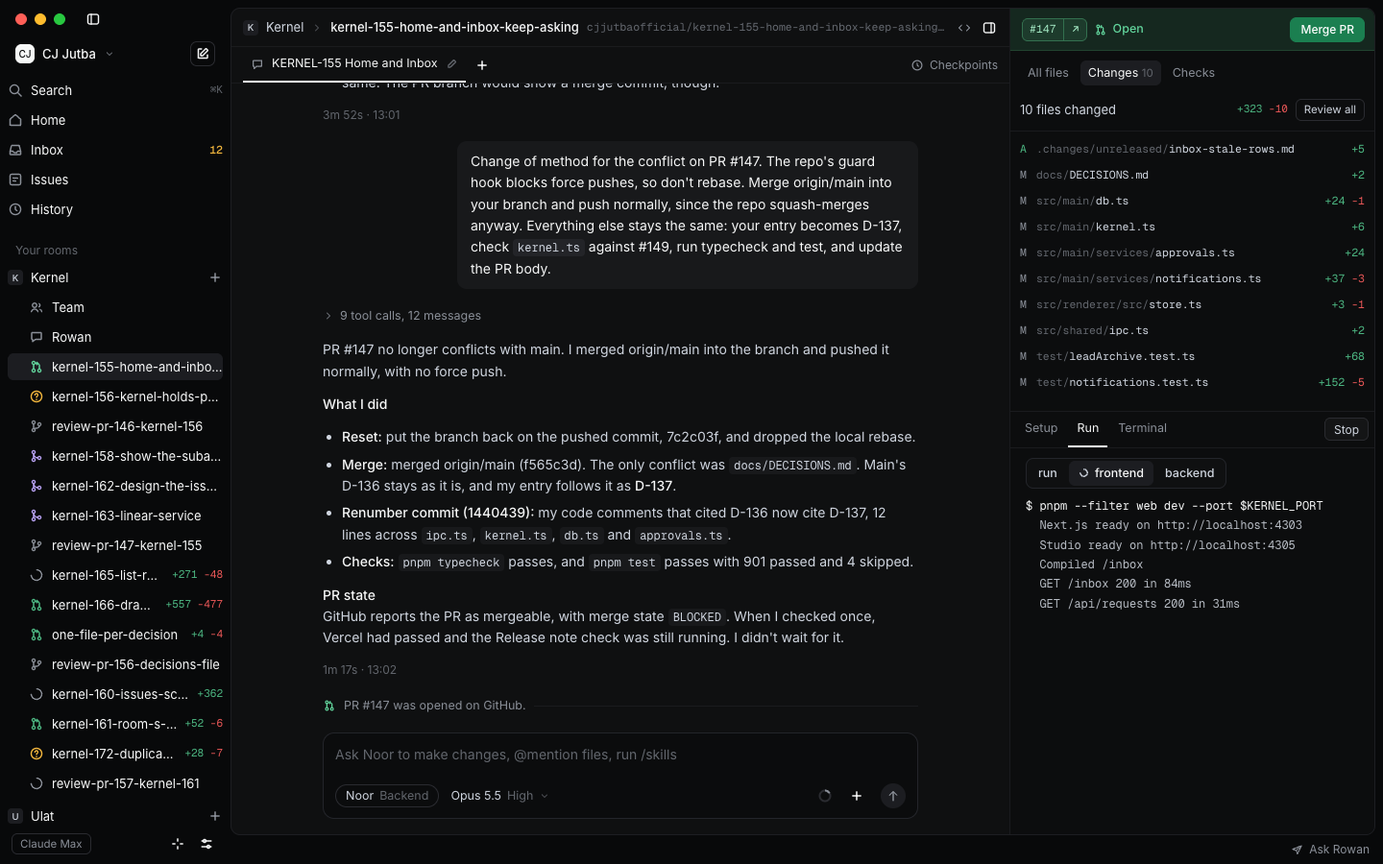
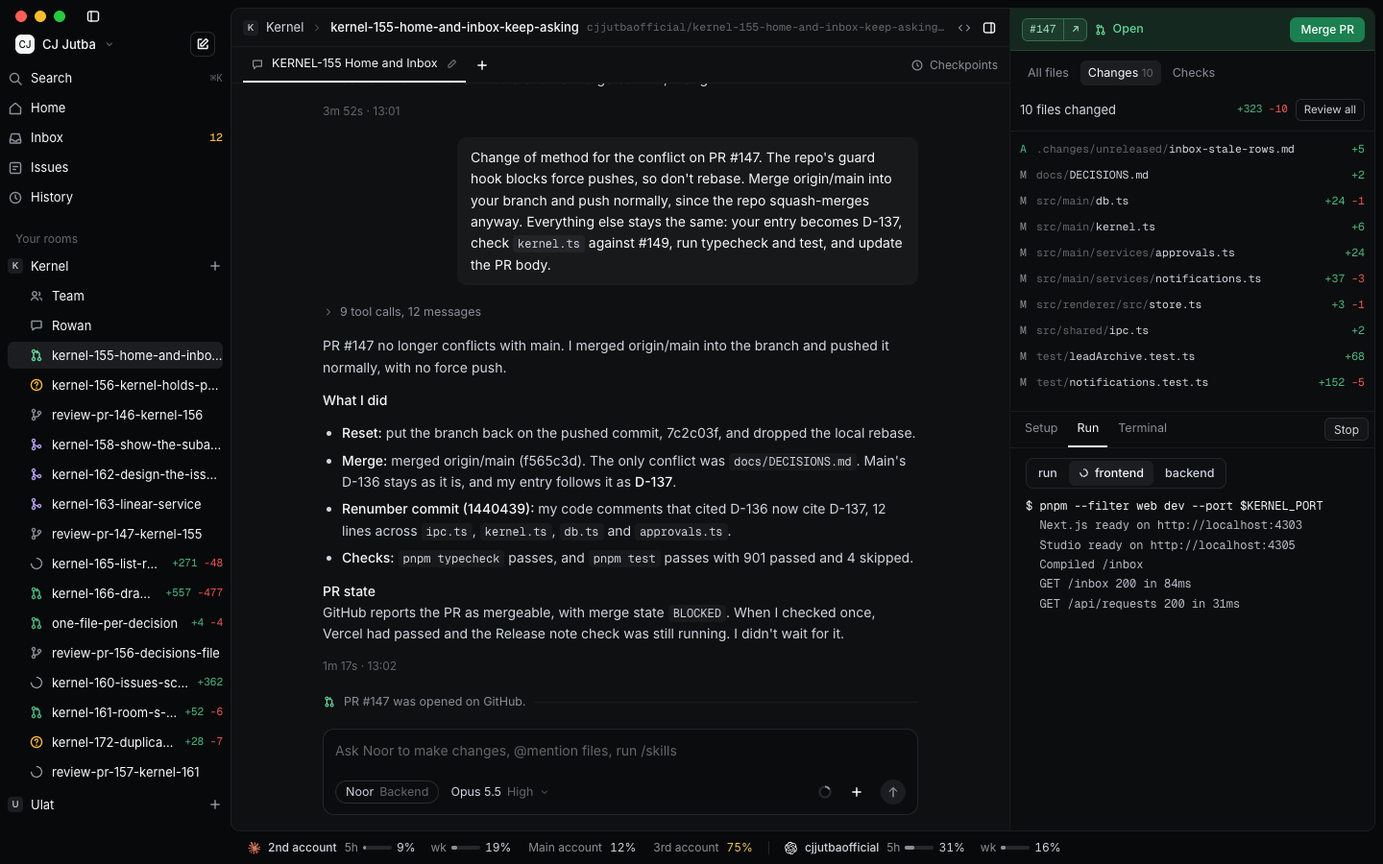
docs(design): new footer and empty sidebar row on the workspace panel pages (KERNEL-672)

diff --git a/design/canvas/project/WorkspacePreview.dc.html b/design/canvas/project/WorkspacePreview.dc.html
@@ -99,6 +99,70 @@ body{margin:0}
 .out .c{color:var(--ink)}
 .empty{flex:1;min-height:0;display:flex;flex-direction:column;align-items:center;justify-content:center;gap:8px;padding:24px;text-align:center}
 </style>
+<style>
+.uf { --ink:#f7f8f8; --ink-2:#d0d6e0; --ink-3:#b7bcc4; --muted:#8a8f98; --faint:#62666d; --line:#1d1e22; --line-2:#26272b; --line-3:#2a2b30; --surface-2:#18191b; --surface-3:#1c1d21; --input-bg:#141516; --nav-hover:#141518; --needs:#f2c55c; --needs-fill:#f2c55c; --del:#f06363; --del-fill:#f06363; --r-sm:6px; --r:8px; --r-md:10px; --r-pill:999px; --canvas:#08090a; --claude:#d97757; }
+.uf * { box-sizing:border-box; }
+.uf button { font:inherit; color:inherit; cursor:pointer; }
+.uf .grow { flex:1; min-width:0; }
+.uf .ellipsis { overflow:hidden; text-overflow:ellipsis; white-space:nowrap; }
+.uf .nv-e { font-size:11.5px; color:var(--muted); }
+.uf .popat { position:absolute; z-index:60; left:10px; bottom:34px; }
+.uf .menu-item:hover, .uf .chip:hover { background:var(--surface-3); }
+.uf { position:relative; height:34px; flex-shrink:0; display:flex; align-items:center; gap:4px; padding:0 10px; font-size:12px; color:var(--muted); }
+.uf .ft-l { display:inline-flex; align-items:center; gap:2px; }
+.uf .ft-pm { display:inline-flex; }
+.uf .chip { display:inline-flex; align-items:center; gap:8px; height:24px; padding:0 8px; border:0; border-radius:var(--r-sm); background:transparent; color:var(--ink-2); font-size:12px; white-space:nowrap; }
+.uf .chip:hover { background:var(--nav-hover); }
+.uf .cn { color:var(--ink-2); font-weight:500; }
+.uf .cn.dim { color:var(--muted); font-weight:400; }
+.uf .fw { display:inline-flex; align-items:center; gap:5px; }
+.uf .wl { color:var(--muted); }
+.uf .fw + .fw { margin-left:8px; }
+.uf .pc, .uf .pm-mp { font-variant-numeric:tabular-nums; color:var(--ink-2); }
+.uf .fdiv { width:1px; height:14px; margin:0 6px; background:var(--line-2); }
+.uf [data-tone='near'] { color:var(--needs) !important; }
+.uf [data-tone='full'] { color:var(--del) !important; }
+.uf .meter { display:inline-block; border-radius:var(--r-pill); background:var(--line-2); overflow:hidden; flex-shrink:0; }
+.uf .meter > span { display:block; height:100%; border-radius:inherit; background:var(--muted); }
+.uf .meter[data-level='near'] > span { background:var(--needs-fill); }
+.uf .meter[data-level='full'] > span { background:var(--del-fill); }
+.uf .ft-pill { display:inline-flex; align-items:center; gap:7px; height:24px; padding:0 10px; border:1px solid var(--line-3); border-radius:var(--r-pill); background:transparent; color:var(--ink-2); font-size:12px; white-space:nowrap; }
+.uf .segmented { display:inline-flex; gap:2px; padding:2px; border:1px solid var(--line-2); border-radius:var(--r); background:var(--input-bg); }
+.uf .segmented button { height:24px; padding:0 10px; border:0; border-radius:var(--r-sm); background:transparent; color:var(--muted); font-size:12.5px; }
+.uf .segmented button[aria-checked='true'] { background:var(--surface-3); color:var(--ink); font-weight:500; }
+.uf .menu-item { display:flex; align-items:center; gap:10px; width:100%; height:32px; padding:0 8px; border:0; border-radius:var(--r-sm); background:transparent; color:var(--ink-2); text-align:left; font-size:13px; }
+.uf .menu-item svg { color:var(--muted); flex-shrink:0; }
+.uf .popover { border-radius:var(--r-md); border:1px solid var(--line-3); background:var(--surface-2); }
+.uf .pm { width:360px; overflow:hidden; }
+.uf .pm-top { display:flex; align-items:center; justify-content:space-between; height:48px; padding:0 10px 0 14px; border-bottom:1px solid var(--line-2); }
+.uf .pm-title { font-size:13px; font-weight:500; color:var(--ink); }
+.uf .pm-sec + .pm-sec { border-top:1px solid var(--line-2); }
+.uf .pm-head { display:flex; align-items:center; gap:10px; width:100%; padding:11px 14px; border:0; background:transparent; text-align:left; }
+.uf .pm-mark { display:inline-flex; width:14px; justify-content:center; color:var(--ink); }
+.uf .pm-who { flex:1; min-width:0; display:flex; flex-direction:column; gap:1px; }
+.uf .pm-line { display:flex; align-items:baseline; gap:8px; min-width:0; }
+.uf .pm-name { font-size:13px; font-weight:500; color:var(--ink); white-space:nowrap; }
+.uf .pm-acct { font-size:12px; color:var(--muted); white-space:nowrap; overflow:hidden; text-overflow:ellipsis; }
+.uf .pm-chev { display:inline-flex; color:var(--muted); }
+.uf .pm-cw { display:inline-flex; align-items:baseline; gap:8px; font-size:12px; }
+.uf .pm-cl { color:var(--muted); }
+.uf .pm-minis { display:flex; align-items:center; gap:14px; padding:0 14px 12px 38px; margin-top:-3px; }
+.uf .pm-mini { display:inline-flex; align-items:center; gap:6px; font-size:12px; white-space:nowrap; }
+.uf .pm-ml { color:var(--muted); }
+.uf .pm-body { display:flex; flex-direction:column; gap:12px; padding:0 14px 8px 38px; margin-top:-4px; }
+.uf .plan-email { font-size:12px; color:var(--muted); }
+.uf .plan-rows { display:flex; flex-direction:column; gap:12px; }
+.uf .plan-row { display:flex; flex-direction:column; gap:5px; }
+.uf .plan-title { font-size:12.5px; color:var(--ink-2); }
+.uf .plan-note { font-size:11.5px; color:var(--muted); }
+.uf .plan-switch { display:flex; flex-direction:column; gap:2px; margin:0 -8px; }
+.uf .plan-switch-title { padding:0 8px; font-size:12px; font-weight:500; color:var(--muted); }
+.uf .menu-item.plan-other { align-items:baseline; gap:8px; color:var(--ink); }
+.uf .plan-other-name { font-weight:500; }
+.uf .plan-other-plan { flex:1; min-width:0; font-size:12px; color:var(--muted); }
+.uf .plan-other-use { font-size:12px; color:var(--muted); }
+.uf .plan-foot { padding:6px; border-top:1px solid var(--line-2); }
+</style>
 </helmet>
 <div class="k t-green gl-pr lg-pr" style="width: 1440px; height: 900px; display: flex; overflow: hidden; --signal: #f5b83d">
 
@@ -149,11 +213,7 @@ body{margin:0}
 <button class="row" style="color: var(--ink); margin-top: 3px"><span class="av" style="width: 16px; height: 16px; font-size: 9.5px; border-radius: 4px">U</span><span class="t">Ulat</span><svg class="i g-muted" viewBox="0 0 16 16" aria-hidden="true"><path d="M8 3.5v9M3.5 8h9"></path></svg></button>
 </div>
 
-<div style="margin-top: auto; display: flex; align-items: center; gap: 4px; padding: 0 4px">
-<span style="font-size: 11.5px; color: var(--muted); border: 1px solid var(--line-3); border-radius: 6px; padding: 2px 8px">Claude Max</span>
-<button class="ib" aria-label="What's new" style="margin-left: auto"><svg class="i" viewBox="0 0 16 16" aria-hidden="true"><path d="M8 2.5v3M8 10.5v3M2.5 8h3M10.5 8h3"></path></svg></button>
-<button class="ib" aria-label="Settings"><svg class="i" viewBox="0 0 16 16" aria-hidden="true"><path d="M3 5h10M3 11h10"></path><circle cx="6" cy="5" r="1.5"></circle><circle cx="10" cy="11" r="1.5"></circle></svg></button>
-</div>
+<div style="margin-top: auto; height: 40px; flex-shrink: 0"></div>
 </aside>
 
 <div style="flex: 1; min-width: 0; display: flex; flex-direction: column; padding: 8px 8px 0 0">
@@ -310,9 +370,10 @@ body{margin:0}
 </section>
 
 </div>
-<div style="height: 30px; flex-shrink: 0; display: flex; align-items: center; justify-content: flex-end; gap: 6px; padding: 0 6px; font-size: 12px; color: var(--muted)">
-<svg class="i" viewBox="0 0 16 16" aria-hidden="true" style="width: 13px; height: 13px"><path d="M13.5 2.5 2.5 7l4.5 1.5L8.5 13z"></path><path d="M7 8.5l3-3"></path></svg>Ask Rowan
-</div>
+<footer class="uf">
+<span class="ft-l"><button type="button" class="chip on" aria-label="Claude Code, 2nd account, active: 5-hour 9%, weekly 19%. Opens usage"><span class="ft-pm"><svg width="13" height="13" viewBox="0 0 24 24" aria-hidden="true" fill="var(--claude)" style="flex-shrink:0"><path d="m4.7144 15.9555 4.7174-2.6471.079-.2307-.079-.1275h-.2307l-.7893-.0486-2.6956-.0729-2.3375-.0971-2.2646-.1214-.5707-.1215-.5343-.7042.0546-.3522.4797-.3218.686.0608 1.5179.1032 2.2767.1578 1.6514.0972 2.4468.255h.3886l.0546-.1579-.1336-.0971-.1032-.0972L6.973 9.8356l-2.55-1.6879-1.3356-.9714-.7225-.4918-.3643-.4614-.1578-1.0078.6557-.7225.8803.0607.2246.0607.8925.686 1.9064 1.4754 2.4893 1.8336.3643.3035.1457-.1032.0182-.0728-.164-.2733-1.3539-2.4467-1.445-2.4893-.6435-1.032-.17-.6194c-.0607-.255-.1032-.4674-.1032-.7285L6.287.1335 6.6997 0l.9957.1336.419.3642.6192 1.4147 1.0018 2.2282 1.5543 3.0296.4553.8985.2429.8318.091.255h.1579v-.1457l.1275-1.706.2368-2.0947.2307-2.6957.0789-.7589.3764-.9107.7468-.4918.5828.2793.4797.686-.0668.4433-.2853 1.8517-.5586 2.9021-.3643 1.9429h.2125l.2429-.2429.9835-1.3053 1.6514-2.0643.7286-.8196.85-.9046.5464-.4311h1.0321l.759 1.1293-.34 1.1657-1.0625 1.3478-.8804 1.1414-1.2628 1.7-.7893 1.36.0729.1093.1882-.0183 2.8535-.607 1.5421-.2794 1.8396-.3157.8318.3886.091.3946-.3278.8075-1.967.4857-2.3072.4614-3.4364.8136-.0425.0304.0486.0607 1.5482.1457.6618.0364h1.621l3.0175.2247.7892.522.4736.6376-.079.4857-1.2142.6193-1.6393-.3886-3.825-.9107-1.3113-.3279h-.1822v.1093l1.0929 1.0686 2.0035 1.8092 2.5075 2.3314.1275.5768-.3218.4554-.34-.0486-2.2039-1.6575-.85-.7468-1.9246-1.621h-.1275v.17l.4432.6496 2.3436 3.5214.1214 1.0807-.17.3521-.6071.2125-.6679-.1214-1.3721-1.9246L14.38 17.959l-1.1414-1.9428-.1397.079-.674 7.2552-.3156.3703-.7286.2793-.6071-.4614-.3218-.7468.3218-1.4753.3886-1.9246.3157-1.53.2853-1.9004.17-.6314-.0121-.0425-.1397.0182-1.4328 1.9672-2.1796 2.9446-1.7243 1.8456-.4128.164-.7164-.3704.0667-.6618.4008-.5889 2.386-3.0357 1.4389-1.882.929-1.0868-.0062-.1579h-.0546l-6.3385 4.1164-1.1293.1457-.4857-.4554.0608-.7467.2307-.2429 1.9064-1.3114Z"/></svg></span><span class="cn">2nd account</span><span class="fw"><span class="wl">5h</span><span class="meter" data-level="" style="width:30px;height:4px"><span style="width:9%"></span></span><span class="pc" data-tone="ok">9%</span></span><span class="fw"><span class="wl">wk</span><span class="meter" data-level="" style="width:30px;height:4px"><span style="width:19%"></span></span><span class="pc" data-tone="ok">19%</span></span></button><button type="button" class="chip" aria-label="Claude Code, Main account: 5-hour 12%. Switch to it"><span class="cn dim">Main account</span><span class="pc" data-tone="ok">12%</span></button><button type="button" class="chip" aria-label="Claude Code, 3rd account: 5-hour 75%. Switch to it"><span class="cn dim">3rd account</span><span class="pc" data-tone="near">75%</span></button><span class="fdiv"></span><button type="button" class="chip on" aria-label="Codex, cjjutbaofficial, active: 5-hour 31%, weekly 16%. Opens usage"><span class="ft-pm"><svg width="13" height="13" viewBox="0 0 24 24" aria-hidden="true" fill="currentColor" style="color:var(--ink);flex-shrink:0"><path d="M22.2819 9.8211a5.9847 5.9847 0 0 0-.5157-4.9108 6.0462 6.0462 0 0 0-6.5098-2.9A6.0651 6.0651 0 0 0 4.9807 4.1818a5.9847 5.9847 0 0 0-3.9977 2.9 6.0462 6.0462 0 0 0 .7427 7.0966 5.98 5.98 0 0 0 .511 4.9107 6.051 6.051 0 0 0 6.5146 2.9001A5.9847 5.9847 0 0 0 13.2599 24a6.0557 6.0557 0 0 0 5.7718-4.2058 5.9894 5.9894 0 0 0 3.9977-2.9001 6.0557 6.0557 0 0 0-.7475-7.0729zm-9.022 12.6081a4.4755 4.4755 0 0 1-2.8764-1.0408l.1419-.0804 4.7783-2.7582a.7948.7948 0 0 0 .3927-.6813v-6.7369l2.02 1.1686a.071.071 0 0 1 .038.052v5.5826a4.504 4.504 0 0 1-4.4945 4.4944zm-9.6607-4.1254a4.4708 4.4708 0 0 1-.5346-3.0137l.142.0852 4.783 2.7582a.7712.7712 0 0 0 .7806 0l5.8428-3.3685v2.3324a.0804.0804 0 0 1-.0332.0615L9.74 19.9502a4.4992 4.4992 0 0 1-6.1408-1.6464zM2.3408 7.8956a4.485 4.485 0 0 1 2.3655-1.9728V11.6a.7664.7664 0 0 0 .3879.6765l5.8144 3.3543-2.0201 1.1685a.0757.0757 0 0 1-.071 0l-4.8303-2.7865A4.504 4.504 0 0 1 2.3408 7.872zm16.5963 3.8558L13.1038 8.364 15.1192 7.2a.0757.0757 0 0 1 .071 0l4.8303 2.7913a4.4944 4.4944 0 0 1-.6765 8.1042v-5.6772a.79.79 0 0 0-.407-.667zm2.0107-3.0231l-.142-.0852-4.7735-2.7818a.7759.7759 0 0 0-.7854 0L9.409 9.2297V6.8974a.0662.0662 0 0 1 .0284-.0615l4.8303-2.7866a4.4992 4.4992 0 0 1 6.6802 4.66zM8.3065 12.863l-2.02-1.1638a.0804.0804 0 0 1-.038-.0567V6.0742a4.4992 4.4992 0 0 1 7.3757-3.4537l-.142.0805L8.704 5.459a.7948.7948 0 0 0-.3927.6813zm1.0976-2.3654l2.602-1.4998 2.6069 1.4998v2.9994l-2.5974 1.4997-2.6067-1.4997Z"/></svg></span><span class="cn">cjjutbaofficial</span><span class="fw"><span class="wl">5h</span><span class="meter" data-level="" style="width:30px;height:4px"><span style="width:31%"></span></span><span class="pc" data-tone="ok">31%</span></span><span class="fw"><span class="wl">wk</span><span class="meter" data-level="" style="width:30px;height:4px"><span style="width:16%"></span></span><span class="pc" data-tone="ok">16%</span></span></button></span><span class="grow"></span>
+</footer>
+
 </div>
 
 </div>

diff --git a/design/canvas/project/WorkspaceRunScripts.dc.html b/design/canvas/project/WorkspaceRunScripts.dc.html
@@ -99,6 +99,70 @@ body{margin:0}
 .out .c{color:var(--ink)}
 .empty{flex:1;min-height:0;display:flex;flex-direction:column;align-items:center;justify-content:center;gap:8px;padding:24px;text-align:center}
 </style>
+<style>
+.uf { --ink:#f7f8f8; --ink-2:#d0d6e0; --ink-3:#b7bcc4; --muted:#8a8f98; --faint:#62666d; --line:#1d1e22; --line-2:#26272b; --line-3:#2a2b30; --surface-2:#18191b; --surface-3:#1c1d21; --input-bg:#141516; --nav-hover:#141518; --needs:#f2c55c; --needs-fill:#f2c55c; --del:#f06363; --del-fill:#f06363; --r-sm:6px; --r:8px; --r-md:10px; --r-pill:999px; --canvas:#08090a; --claude:#d97757; }
+.uf * { box-sizing:border-box; }
+.uf button { font:inherit; color:inherit; cursor:pointer; }
+.uf .grow { flex:1; min-width:0; }
+.uf .ellipsis { overflow:hidden; text-overflow:ellipsis; white-space:nowrap; }
+.uf .nv-e { font-size:11.5px; color:var(--muted); }
+.uf .popat { position:absolute; z-index:60; left:10px; bottom:34px; }
+.uf .menu-item:hover, .uf .chip:hover { background:var(--surface-3); }
+.uf { position:relative; height:34px; flex-shrink:0; display:flex; align-items:center; gap:4px; padding:0 10px; font-size:12px; color:var(--muted); }
+.uf .ft-l { display:inline-flex; align-items:center; gap:2px; }
+.uf .ft-pm { display:inline-flex; }
+.uf .chip { display:inline-flex; align-items:center; gap:8px; height:24px; padding:0 8px; border:0; border-radius:var(--r-sm); background:transparent; color:var(--ink-2); font-size:12px; white-space:nowrap; }
+.uf .chip:hover { background:var(--nav-hover); }
+.uf .cn { color:var(--ink-2); font-weight:500; }
+.uf .cn.dim { color:var(--muted); font-weight:400; }
+.uf .fw { display:inline-flex; align-items:center; gap:5px; }
+.uf .wl { color:var(--muted); }
+.uf .fw + .fw { margin-left:8px; }
+.uf .pc, .uf .pm-mp { font-variant-numeric:tabular-nums; color:var(--ink-2); }
+.uf .fdiv { width:1px; height:14px; margin:0 6px; background:var(--line-2); }
+.uf [data-tone='near'] { color:var(--needs) !important; }
+.uf [data-tone='full'] { color:var(--del) !important; }
+.uf .meter { display:inline-block; border-radius:var(--r-pill); background:var(--line-2); overflow:hidden; flex-shrink:0; }
+.uf .meter > span { display:block; height:100%; border-radius:inherit; background:var(--muted); }
+.uf .meter[data-level='near'] > span { background:var(--needs-fill); }
+.uf .meter[data-level='full'] > span { background:var(--del-fill); }
+.uf .ft-pill { display:inline-flex; align-items:center; gap:7px; height:24px; padding:0 10px; border:1px solid var(--line-3); border-radius:var(--r-pill); background:transparent; color:var(--ink-2); font-size:12px; white-space:nowrap; }
+.uf .segmented { display:inline-flex; gap:2px; padding:2px; border:1px solid var(--line-2); border-radius:var(--r); background:var(--input-bg); }
+.uf .segmented button { height:24px; padding:0 10px; border:0; border-radius:var(--r-sm); background:transparent; color:var(--muted); font-size:12.5px; }
+.uf .segmented button[aria-checked='true'] { background:var(--surface-3); color:var(--ink); font-weight:500; }
+.uf .menu-item { display:flex; align-items:center; gap:10px; width:100%; height:32px; padding:0 8px; border:0; border-radius:var(--r-sm); background:transparent; color:var(--ink-2); text-align:left; font-size:13px; }
+.uf .menu-item svg { color:var(--muted); flex-shrink:0; }
+.uf .popover { border-radius:var(--r-md); border:1px solid var(--line-3); background:var(--surface-2); }
+.uf .pm { width:360px; overflow:hidden; }
+.uf .pm-top { display:flex; align-items:center; justify-content:space-between; height:48px; padding:0 10px 0 14px; border-bottom:1px solid var(--line-2); }
+.uf .pm-title { font-size:13px; font-weight:500; color:var(--ink); }
+.uf .pm-sec + .pm-sec { border-top:1px solid var(--line-2); }
+.uf .pm-head { display:flex; align-items:center; gap:10px; width:100%; padding:11px 14px; border:0; background:transparent; text-align:left; }
+.uf .pm-mark { display:inline-flex; width:14px; justify-content:center; color:var(--ink); }
+.uf .pm-who { flex:1; min-width:0; display:flex; flex-direction:column; gap:1px; }
+.uf .pm-line { display:flex; align-items:baseline; gap:8px; min-width:0; }
+.uf .pm-name { font-size:13px; font-weight:500; color:var(--ink); white-space:nowrap; }
+.uf .pm-acct { font-size:12px; color:var(--muted); white-space:nowrap; overflow:hidden; text-overflow:ellipsis; }
+.uf .pm-chev { display:inline-flex; color:var(--muted); }
+.uf .pm-cw { display:inline-flex; align-items:baseline; gap:8px; font-size:12px; }
+.uf .pm-cl { color:var(--muted); }
+.uf .pm-minis { display:flex; align-items:center; gap:14px; padding:0 14px 12px 38px; margin-top:-3px; }
+.uf .pm-mini { display:inline-flex; align-items:center; gap:6px; font-size:12px; white-space:nowrap; }
+.uf .pm-ml { color:var(--muted); }
+.uf .pm-body { display:flex; flex-direction:column; gap:12px; padding:0 14px 8px 38px; margin-top:-4px; }
+.uf .plan-email { font-size:12px; color:var(--muted); }
+.uf .plan-rows { display:flex; flex-direction:column; gap:12px; }
+.uf .plan-row { display:flex; flex-direction:column; gap:5px; }
+.uf .plan-title { font-size:12.5px; color:var(--ink-2); }
+.uf .plan-note { font-size:11.5px; color:var(--muted); }
+.uf .plan-switch { display:flex; flex-direction:column; gap:2px; margin:0 -8px; }
+.uf .plan-switch-title { padding:0 8px; font-size:12px; font-weight:500; color:var(--muted); }
+.uf .menu-item.plan-other { align-items:baseline; gap:8px; color:var(--ink); }
+.uf .plan-other-name { font-weight:500; }
+.uf .plan-other-plan { flex:1; min-width:0; font-size:12px; color:var(--muted); }
+.uf .plan-other-use { font-size:12px; color:var(--muted); }
+.uf .plan-foot { padding:6px; border-top:1px solid var(--line-2); }
+</style>
 </helmet>
 <div class="k t-green gl-pr lg-pr" style="width: 1440px; height: 900px; display: flex; overflow: hidden; --signal: #f5b83d">
 
@@ -149,11 +213,7 @@ body{margin:0}
 <button class="row" style="color: var(--ink); margin-top: 3px"><span class="av" style="width: 16px; height: 16px; font-size: 9.5px; border-radius: 4px">U</span><span class="t">Ulat</span><svg class="i g-muted" viewBox="0 0 16 16" aria-hidden="true"><path d="M8 3.5v9M3.5 8h9"></path></svg></button>
 </div>
 
-<div style="margin-top: auto; display: flex; align-items: center; gap: 4px; padding: 0 4px">
-<span style="font-size: 11.5px; color: var(--muted); border: 1px solid var(--line-3); border-radius: 6px; padding: 2px 8px">Claude Max</span>
-<button class="ib" aria-label="What's new" style="margin-left: auto"><svg class="i" viewBox="0 0 16 16" aria-hidden="true"><path d="M8 2.5v3M8 10.5v3M2.5 8h3M10.5 8h3"></path></svg></button>
-<button class="ib" aria-label="Settings"><svg class="i" viewBox="0 0 16 16" aria-hidden="true"><path d="M3 5h10M3 11h10"></path><circle cx="6" cy="5" r="1.5"></circle><circle cx="10" cy="11" r="1.5"></circle></svg></button>
-</div>
+<div style="margin-top: auto; height: 40px; flex-shrink: 0"></div>
 </aside>
 
 <div style="flex: 1; min-width: 0; display: flex; flex-direction: column; padding: 8px 8px 0 0">
@@ -310,9 +370,10 @@ body{margin:0}
 </section>
 
 </div>
-<div style="height: 30px; flex-shrink: 0; display: flex; align-items: center; justify-content: flex-end; gap: 6px; padding: 0 6px; font-size: 12px; color: var(--muted)">
-<svg class="i" viewBox="0 0 16 16" aria-hidden="true" style="width: 13px; height: 13px"><path d="M13.5 2.5 2.5 7l4.5 1.5L8.5 13z"></path><path d="M7 8.5l3-3"></path></svg>Ask Rowan
-</div>
+<footer class="uf">
+<span class="ft-l"><button type="button" class="chip on" aria-label="Claude Code, 2nd account, active: 5-hour 9%, weekly 19%. Opens usage"><span class="ft-pm"><svg width="13" height="13" viewBox="0 0 24 24" aria-hidden="true" fill="var(--claude)" style="flex-shrink:0"><path d="m4.7144 15.9555 4.7174-2.6471.079-.2307-.079-.1275h-.2307l-.7893-.0486-2.6956-.0729-2.3375-.0971-2.2646-.1214-.5707-.1215-.5343-.7042.0546-.3522.4797-.3218.686.0608 1.5179.1032 2.2767.1578 1.6514.0972 2.4468.255h.3886l.0546-.1579-.1336-.0971-.1032-.0972L6.973 9.8356l-2.55-1.6879-1.3356-.9714-.7225-.4918-.3643-.4614-.1578-1.0078.6557-.7225.8803.0607.2246.0607.8925.686 1.9064 1.4754 2.4893 1.8336.3643.3035.1457-.1032.0182-.0728-.164-.2733-1.3539-2.4467-1.445-2.4893-.6435-1.032-.17-.6194c-.0607-.255-.1032-.4674-.1032-.7285L6.287.1335 6.6997 0l.9957.1336.419.3642.6192 1.4147 1.0018 2.2282 1.5543 3.0296.4553.8985.2429.8318.091.255h.1579v-.1457l.1275-1.706.2368-2.0947.2307-2.6957.0789-.7589.3764-.9107.7468-.4918.5828.2793.4797.686-.0668.4433-.2853 1.8517-.5586 2.9021-.3643 1.9429h.2125l.2429-.2429.9835-1.3053 1.6514-2.0643.7286-.8196.85-.9046.5464-.4311h1.0321l.759 1.1293-.34 1.1657-1.0625 1.3478-.8804 1.1414-1.2628 1.7-.7893 1.36.0729.1093.1882-.0183 2.8535-.607 1.5421-.2794 1.8396-.3157.8318.3886.091.3946-.3278.8075-1.967.4857-2.3072.4614-3.4364.8136-.0425.0304.0486.0607 1.5482.1457.6618.0364h1.621l3.0175.2247.7892.522.4736.6376-.079.4857-1.2142.6193-1.6393-.3886-3.825-.9107-1.3113-.3279h-.1822v.1093l1.0929 1.0686 2.0035 1.8092 2.5075 2.3314.1275.5768-.3218.4554-.34-.0486-2.2039-1.6575-.85-.7468-1.9246-1.621h-.1275v.17l.4432.6496 2.3436 3.5214.1214 1.0807-.17.3521-.6071.2125-.6679-.1214-1.3721-1.9246L14.38 17.959l-1.1414-1.9428-.1397.079-.674 7.2552-.3156.3703-.7286.2793-.6071-.4614-.3218-.7468.3218-1.4753.3886-1.9246.3157-1.53.2853-1.9004.17-.6314-.0121-.0425-.1397.0182-1.4328 1.9672-2.1796 2.9446-1.7243 1.8456-.4128.164-.7164-.3704.0667-.6618.4008-.5889 2.386-3.0357 1.4389-1.882.929-1.0868-.0062-.1579h-.0546l-6.3385 4.1164-1.1293.1457-.4857-.4554.0608-.7467.2307-.2429 1.9064-1.3114Z"/></svg></span><span class="cn">2nd account</span><span class="fw"><span class="wl">5h</span><span class="meter" data-level="" style="width:30px;height:4px"><span style="width:9%"></span></span><span class="pc" data-tone="ok">9%</span></span><span class="fw"><span class="wl">wk</span><span class="meter" data-level="" style="width:30px;height:4px"><span style="width:19%"></span></span><span class="pc" data-tone="ok">19%</span></span></button><button type="button" class="chip" aria-label="Claude Code, Main account: 5-hour 12%. Switch to it"><span class="cn dim">Main account</span><span class="pc" data-tone="ok">12%</span></button><button type="button" class="chip" aria-label="Claude Code, 3rd account: 5-hour 75%. Switch to it"><span class="cn dim">3rd account</span><span class="pc" data-tone="near">75%</span></button><span class="fdiv"></span><button type="button" class="chip on" aria-label="Codex, cjjutbaofficial, active: 5-hour 31%, weekly 16%. Opens usage"><span class="ft-pm"><svg width="13" height="13" viewBox="0 0 24 24" aria-hidden="true" fill="currentColor" style="color:var(--ink);flex-shrink:0"><path d="M22.2819 9.8211a5.9847 5.9847 0 0 0-.5157-4.9108 6.0462 6.0462 0 0 0-6.5098-2.9A6.0651 6.0651 0 0 0 4.9807 4.1818a5.9847 5.9847 0 0 0-3.9977 2.9 6.0462 6.0462 0 0 0 .7427 7.0966 5.98 5.98 0 0 0 .511 4.9107 6.051 6.051 0 0 0 6.5146 2.9001A5.9847 5.9847 0 0 0 13.2599 24a6.0557 6.0557 0 0 0 5.7718-4.2058 5.9894 5.9894 0 0 0 3.9977-2.9001 6.0557 6.0557 0 0 0-.7475-7.0729zm-9.022 12.6081a4.4755 4.4755 0 0 1-2.8764-1.0408l.1419-.0804 4.7783-2.7582a.7948.7948 0 0 0 .3927-.6813v-6.7369l2.02 1.1686a.071.071 0 0 1 .038.052v5.5826a4.504 4.504 0 0 1-4.4945 4.4944zm-9.6607-4.1254a4.4708 4.4708 0 0 1-.5346-3.0137l.142.0852 4.783 2.7582a.7712.7712 0 0 0 .7806 0l5.8428-3.3685v2.3324a.0804.0804 0 0 1-.0332.0615L9.74 19.9502a4.4992 4.4992 0 0 1-6.1408-1.6464zM2.3408 7.8956a4.485 4.485 0 0 1 2.3655-1.9728V11.6a.7664.7664 0 0 0 .3879.6765l5.8144 3.3543-2.0201 1.1685a.0757.0757 0 0 1-.071 0l-4.8303-2.7865A4.504 4.504 0 0 1 2.3408 7.872zm16.5963 3.8558L13.1038 8.364 15.1192 7.2a.0757.0757 0 0 1 .071 0l4.8303 2.7913a4.4944 4.4944 0 0 1-.6765 8.1042v-5.6772a.79.79 0 0 0-.407-.667zm2.0107-3.0231l-.142-.0852-4.7735-2.7818a.7759.7759 0 0 0-.7854 0L9.409 9.2297V6.8974a.0662.0662 0 0 1 .0284-.0615l4.8303-2.7866a4.4992 4.4992 0 0 1 6.6802 4.66zM8.3065 12.863l-2.02-1.1638a.0804.0804 0 0 1-.038-.0567V6.0742a4.4992 4.4992 0 0 1 7.3757-3.4537l-.142.0805L8.704 5.459a.7948.7948 0 0 0-.3927.6813zm1.0976-2.3654l2.602-1.4998 2.6069 1.4998v2.9994l-2.5974 1.4997-2.6067-1.4997Z"/></svg></span><span class="cn">cjjutbaofficial</span><span class="fw"><span class="wl">5h</span><span class="meter" data-level="" style="width:30px;height:4px"><span style="width:31%"></span></span><span class="pc" data-tone="ok">31%</span></span><span class="fw"><span class="wl">wk</span><span class="meter" data-level="" style="width:30px;height:4px"><span style="width:16%"></span></span><span class="pc" data-tone="ok">16%</span></span></button></span><span class="grow"></span>
+</footer>
+
 </div>
 
 </div>

diff --git a/design/canvas/project/WorkspaceTerminalPresets.dc.html b/design/canvas/project/WorkspaceTerminalPresets.dc.html
@@ -99,6 +99,70 @@ body{margin:0}
 .out .c{color:var(--ink)}
 .empty{flex:1;min-height:0;display:flex;flex-direction:column;align-items:center;justify-content:center;gap:8px;padding:24px;text-align:center}
 </style>
+<style>
+.uf { --ink:#f7f8f8; --ink-2:#d0d6e0; --ink-3:#b7bcc4; --muted:#8a8f98; --faint:#62666d; --line:#1d1e22; --line-2:#26272b; --line-3:#2a2b30; --surface-2:#18191b; --surface-3:#1c1d21; --input-bg:#141516; --nav-hover:#141518; --needs:#f2c55c; --needs-fill:#f2c55c; --del:#f06363; --del-fill:#f06363; --r-sm:6px; --r:8px; --r-md:10px; --r-pill:999px; --canvas:#08090a; --claude:#d97757; }
+.uf * { box-sizing:border-box; }
+.uf button { font:inherit; color:inherit; cursor:pointer; }
+.uf .grow { flex:1; min-width:0; }
+.uf .ellipsis { overflow:hidden; text-overflow:ellipsis; white-space:nowrap; }
+.uf .nv-e { font-size:11.5px; color:var(--muted); }
+.uf .popat { position:absolute; z-index:60; left:10px; bottom:34px; }
+.uf .menu-item:hover, .uf .chip:hover { background:var(--surface-3); }
+.uf { position:relative; height:34px; flex-shrink:0; display:flex; align-items:center; gap:4px; padding:0 10px; font-size:12px; color:var(--muted); }
+.uf .ft-l { display:inline-flex; align-items:center; gap:2px; }
+.uf .ft-pm { display:inline-flex; }
+.uf .chip { display:inline-flex; align-items:center; gap:8px; height:24px; padding:0 8px; border:0; border-radius:var(--r-sm); background:transparent; color:var(--ink-2); font-size:12px; white-space:nowrap; }
+.uf .chip:hover { background:var(--nav-hover); }
+.uf .cn { color:var(--ink-2); font-weight:500; }
+.uf .cn.dim { color:var(--muted); font-weight:400; }
+.uf .fw { display:inline-flex; align-items:center; gap:5px; }
+.uf .wl { color:var(--muted); }
+.uf .fw + .fw { margin-left:8px; }
+.uf .pc, .uf .pm-mp { font-variant-numeric:tabular-nums; color:var(--ink-2); }
+.uf .fdiv { width:1px; height:14px; margin:0 6px; background:var(--line-2); }
+.uf [data-tone='near'] { color:var(--needs) !important; }
+.uf [data-tone='full'] { color:var(--del) !important; }
+.uf .meter { display:inline-block; border-radius:var(--r-pill); background:var(--line-2); overflow:hidden; flex-shrink:0; }
+.uf .meter > span { display:block; height:100%; border-radius:inherit; background:var(--muted); }
+.uf .meter[data-level='near'] > span { background:var(--needs-fill); }
+.uf .meter[data-level='full'] > span { background:var(--del-fill); }
+.uf .ft-pill { display:inline-flex; align-items:center; gap:7px; height:24px; padding:0 10px; border:1px solid var(--line-3); border-radius:var(--r-pill); background:transparent; color:var(--ink-2); font-size:12px; white-space:nowrap; }
+.uf .segmented { display:inline-flex; gap:2px; padding:2px; border:1px solid var(--line-2); border-radius:var(--r); background:var(--input-bg); }
+.uf .segmented button { height:24px; padding:0 10px; border:0; border-radius:var(--r-sm); background:transparent; color:var(--muted); font-size:12.5px; }
+.uf .segmented button[aria-checked='true'] { background:var(--surface-3); color:var(--ink); font-weight:500; }
+.uf .menu-item { display:flex; align-items:center; gap:10px; width:100%; height:32px; padding:0 8px; border:0; border-radius:var(--r-sm); background:transparent; color:var(--ink-2); text-align:left; font-size:13px; }
+.uf .menu-item svg { color:var(--muted); flex-shrink:0; }
+.uf .popover { border-radius:var(--r-md); border:1px solid var(--line-3); background:var(--surface-2); }
+.uf .pm { width:360px; overflow:hidden; }
+.uf .pm-top { display:flex; align-items:center; justify-content:space-between; height:48px; padding:0 10px 0 14px; border-bottom:1px solid var(--line-2); }
+.uf .pm-title { font-size:13px; font-weight:500; color:var(--ink); }
+.uf .pm-sec + .pm-sec { border-top:1px solid var(--line-2); }
+.uf .pm-head { display:flex; align-items:center; gap:10px; width:100%; padding:11px 14px; border:0; background:transparent; text-align:left; }
+.uf .pm-mark { display:inline-flex; width:14px; justify-content:center; color:var(--ink); }
+.uf .pm-who { flex:1; min-width:0; display:flex; flex-direction:column; gap:1px; }
+.uf .pm-line { display:flex; align-items:baseline; gap:8px; min-width:0; }
+.uf .pm-name { font-size:13px; font-weight:500; color:var(--ink); white-space:nowrap; }
+.uf .pm-acct { font-size:12px; color:var(--muted); white-space:nowrap; overflow:hidden; text-overflow:ellipsis; }
+.uf .pm-chev { display:inline-flex; color:var(--muted); }
+.uf .pm-cw { display:inline-flex; align-items:baseline; gap:8px; font-size:12px; }
+.uf .pm-cl { color:var(--muted); }
+.uf .pm-minis { display:flex; align-items:center; gap:14px; padding:0 14px 12px 38px; margin-top:-3px; }
+.uf .pm-mini { display:inline-flex; align-items:center; gap:6px; font-size:12px; white-space:nowrap; }
+.uf .pm-ml { color:var(--muted); }
+.uf .pm-body { display:flex; flex-direction:column; gap:12px; padding:0 14px 8px 38px; margin-top:-4px; }
+.uf .plan-email { font-size:12px; color:var(--muted); }
+.uf .plan-rows { display:flex; flex-direction:column; gap:12px; }
+.uf .plan-row { display:flex; flex-direction:column; gap:5px; }
+.uf .plan-title { font-size:12.5px; color:var(--ink-2); }
+.uf .plan-note { font-size:11.5px; color:var(--muted); }
+.uf .plan-switch { display:flex; flex-direction:column; gap:2px; margin:0 -8px; }
+.uf .plan-switch-title { padding:0 8px; font-size:12px; font-weight:500; color:var(--muted); }
+.uf .menu-item.plan-other { align-items:baseline; gap:8px; color:var(--ink); }
+.uf .plan-other-name { font-weight:500; }
+.uf .plan-other-plan { flex:1; min-width:0; font-size:12px; color:var(--muted); }
+.uf .plan-other-use { font-size:12px; color:var(--muted); }
+.uf .plan-foot { padding:6px; border-top:1px solid var(--line-2); }
+</style>
 </helmet>
 <div class="k t-green gl-pr lg-pr" style="width: 1440px; height: 900px; display: flex; overflow: hidden; --signal: #f5b83d">
 
@@ -149,11 +213,7 @@ body{margin:0}
 <button class="row" style="color: var(--ink); margin-top: 3px"><span class="av" style="width: 16px; height: 16px; font-size: 9.5px; border-radius: 4px">U</span><span class="t">Ulat</span><svg class="i g-muted" viewBox="0 0 16 16" aria-hidden="true"><path d="M8 3.5v9M3.5 8h9"></path></svg></button>
 </div>
 
-<div style="margin-top: auto; display: flex; align-items: center; gap: 4px; padding: 0 4px">
-<span style="font-size: 11.5px; color: var(--muted); border: 1px solid var(--line-3); border-radius: 6px; padding: 2px 8px">Claude Max</span>
-<button class="ib" aria-label="What's new" style="margin-left: auto"><svg class="i" viewBox="0 0 16 16" aria-hidden="true"><path d="M8 2.5v3M8 10.5v3M2.5 8h3M10.5 8h3"></path></svg></button>
-<button class="ib" aria-label="Settings"><svg class="i" viewBox="0 0 16 16" aria-hidden="true"><path d="M3 5h10M3 11h10"></path><circle cx="6" cy="5" r="1.5"></circle><circle cx="10" cy="11" r="1.5"></circle></svg></button>
-</div>
+<div style="margin-top: auto; height: 40px; flex-shrink: 0"></div>
 </aside>
 
 <div style="flex: 1; min-width: 0; display: flex; flex-direction: column; padding: 8px 8px 0 0">
@@ -310,9 +370,10 @@ body{margin:0}
 </section>
 
 </div>
-<div style="height: 30px; flex-shrink: 0; display: flex; align-items: center; justify-content: flex-end; gap: 6px; padding: 0 6px; font-size: 12px; color: var(--muted)">
-<svg class="i" viewBox="0 0 16 16" aria-hidden="true" style="width: 13px; height: 13px"><path d="M13.5 2.5 2.5 7l4.5 1.5L8.5 13z"></path><path d="M7 8.5l3-3"></path></svg>Ask Rowan
-</div>
+<footer class="uf">
+<span class="ft-l"><button type="button" class="chip on" aria-label="Claude Code, 2nd account, active: 5-hour 9%, weekly 19%. Opens usage"><span class="ft-pm"><svg width="13" height="13" viewBox="0 0 24 24" aria-hidden="true" fill="var(--claude)" style="flex-shrink:0"><path d="m4.7144 15.9555 4.7174-2.6471.079-.2307-.079-.1275h-.2307l-.7893-.0486-2.6956-.0729-2.3375-.0971-2.2646-.1214-.5707-.1215-.5343-.7042.0546-.3522.4797-.3218.686.0608 1.5179.1032 2.2767.1578 1.6514.0972 2.4468.255h.3886l.0546-.1579-.1336-.0971-.1032-.0972L6.973 9.8356l-2.55-1.6879-1.3356-.9714-.7225-.4918-.3643-.4614-.1578-1.0078.6557-.7225.8803.0607.2246.0607.8925.686 1.9064 1.4754 2.4893 1.8336.3643.3035.1457-.1032.0182-.0728-.164-.2733-1.3539-2.4467-1.445-2.4893-.6435-1.032-.17-.6194c-.0607-.255-.1032-.4674-.1032-.7285L6.287.1335 6.6997 0l.9957.1336.419.3642.6192 1.4147 1.0018 2.2282 1.5543 3.0296.4553.8985.2429.8318.091.255h.1579v-.1457l.1275-1.706.2368-2.0947.2307-2.6957.0789-.7589.3764-.9107.7468-.4918.5828.2793.4797.686-.0668.4433-.2853 1.8517-.5586 2.9021-.3643 1.9429h.2125l.2429-.2429.9835-1.3053 1.6514-2.0643.7286-.8196.85-.9046.5464-.4311h1.0321l.759 1.1293-.34 1.1657-1.0625 1.3478-.8804 1.1414-1.2628 1.7-.7893 1.36.0729.1093.1882-.0183 2.8535-.607 1.5421-.2794 1.8396-.3157.8318.3886.091.3946-.3278.8075-1.967.4857-2.3072.4614-3.4364.8136-.0425.0304.0486.0607 1.5482.1457.6618.0364h1.621l3.0175.2247.7892.522.4736.6376-.079.4857-1.2142.6193-1.6393-.3886-3.825-.9107-1.3113-.3279h-.1822v.1093l1.0929 1.0686 2.0035 1.8092 2.5075 2.3314.1275.5768-.3218.4554-.34-.0486-2.2039-1.6575-.85-.7468-1.9246-1.621h-.1275v.17l.4432.6496 2.3436 3.5214.1214 1.0807-.17.3521-.6071.2125-.6679-.1214-1.3721-1.9246L14.38 17.959l-1.1414-1.9428-.1397.079-.674 7.2552-.3156.3703-.7286.2793-.6071-.4614-.3218-.7468.3218-1.4753.3886-1.9246.3157-1.53.2853-1.9004.17-.6314-.0121-.0425-.1397.0182-1.4328 1.9672-2.1796 2.9446-1.7243 1.8456-.4128.164-.7164-.3704.0667-.6618.4008-.5889 2.386-3.0357 1.4389-1.882.929-1.0868-.0062-.1579h-.0546l-6.3385 4.1164-1.1293.1457-.4857-.4554.0608-.7467.2307-.2429 1.9064-1.3114Z"/></svg></span><span class="cn">2nd account</span><span class="fw"><span class="wl">5h</span><span class="meter" data-level="" style="width:30px;height:4px"><span style="width:9%"></span></span><span class="pc" data-tone="ok">9%</span></span><span class="fw"><span class="wl">wk</span><span class="meter" data-level="" style="width:30px;height:4px"><span style="width:19%"></span></span><span class="pc" data-tone="ok">19%</span></span></button><button type="button" class="chip" aria-label="Claude Code, Main account: 5-hour 12%. Switch to it"><span class="cn dim">Main account</span><span class="pc" data-tone="ok">12%</span></button><button type="button" class="chip" aria-label="Claude Code, 3rd account: 5-hour 75%. Switch to it"><span class="cn dim">3rd account</span><span class="pc" data-tone="near">75%</span></button><span class="fdiv"></span><button type="button" class="chip on" aria-label="Codex, cjjutbaofficial, active: 5-hour 31%, weekly 16%. Opens usage"><span class="ft-pm"><svg width="13" height="13" viewBox="0 0 24 24" aria-hidden="true" fill="currentColor" style="color:var(--ink);flex-shrink:0"><path d="M22.2819 9.8211a5.9847 5.9847 0 0 0-.5157-4.9108 6.0462 6.0462 0 0 0-6.5098-2.9A6.0651 6.0651 0 0 0 4.9807 4.1818a5.9847 5.9847 0 0 0-3.9977 2.9 6.0462 6.0462 0 0 0 .7427 7.0966 5.98 5.98 0 0 0 .511 4.9107 6.051 6.051 0 0 0 6.5146 2.9001A5.9847 5.9847 0 0 0 13.2599 24a6.0557 6.0557 0 0 0 5.7718-4.2058 5.9894 5.9894 0 0 0 3.9977-2.9001 6.0557 6.0557 0 0 0-.7475-7.0729zm-9.022 12.6081a4.4755 4.4755 0 0 1-2.8764-1.0408l.1419-.0804 4.7783-2.7582a.7948.7948 0 0 0 .3927-.6813v-6.7369l2.02 1.1686a.071.071 0 0 1 .038.052v5.5826a4.504 4.504 0 0 1-4.4945 4.4944zm-9.6607-4.1254a4.4708 4.4708 0 0 1-.5346-3.0137l.142.0852 4.783 2.7582a.7712.7712 0 0 0 .7806 0l5.8428-3.3685v2.3324a.0804.0804 0 0 1-.0332.0615L9.74 19.9502a4.4992 4.4992 0 0 1-6.1408-1.6464zM2.3408 7.8956a4.485 4.485 0 0 1 2.3655-1.9728V11.6a.7664.7664 0 0 0 .3879.6765l5.8144 3.3543-2.0201 1.1685a.0757.0757 0 0 1-.071 0l-4.8303-2.7865A4.504 4.504 0 0 1 2.3408 7.872zm16.5963 3.8558L13.1038 8.364 15.1192 7.2a.0757.0757 0 0 1 .071 0l4.8303 2.7913a4.4944 4.4944 0 0 1-.6765 8.1042v-5.6772a.79.79 0 0 0-.407-.667zm2.0107-3.0231l-.142-.0852-4.7735-2.7818a.7759.7759 0 0 0-.7854 0L9.409 9.2297V6.8974a.0662.0662 0 0 1 .0284-.0615l4.8303-2.7866a4.4992 4.4992 0 0 1 6.6802 4.66zM8.3065 12.863l-2.02-1.1638a.0804.0804 0 0 1-.038-.0567V6.0742a4.4992 4.4992 0 0 1 7.3757-3.4537l-.142.0805L8.704 5.459a.7948.7948 0 0 0-.3927.6813zm1.0976-2.3654l2.602-1.4998 2.6069 1.4998v2.9994l-2.5974 1.4997-2.6067-1.4997Z"/></svg></span><span class="cn">cjjutbaofficial</span><span class="fw"><span class="wl">5h</span><span class="meter" data-level="" style="width:30px;height:4px"><span style="width:31%"></span></span><span class="pc" data-tone="ok">31%</span></span><span class="fw"><span class="wl">wk</span><span class="meter" data-level="" style="width:30px;height:4px"><span style="width:16%"></span></span><span class="pc" data-tone="ok">16%</span></span></button></span><span class="grow"></span>
+</footer>
+
 </div>
 
 </div>

diff --git a/design/canvas/source/templates/WorkspacePanels.dc.html b/design/canvas/source/templates/WorkspacePanels.dc.html
@@ -149,11 +149,7 @@ body{margin:0}
 <button class="row" style="color: var(--ink); margin-top: 3px"><span class="av" style="width: 16px; height: 16px; font-size: 9.5px; border-radius: 4px">U</span><span class="t">Ulat</span><svg class="i g-muted" viewBox="0 0 16 16" aria-hidden="true"><path d="M8 3.5v9M3.5 8h9"></path></svg></button>
 </div>
 
-<div style="margin-top: auto; display: flex; align-items: center; gap: 4px; padding: 0 4px">
-<span style="font-size: 11.5px; color: var(--muted); border: 1px solid var(--line-3); border-radius: 6px; padding: 2px 8px">Claude Max</span>
-<button class="ib" aria-label="What's new" style="margin-left: auto"><svg class="i" viewBox="0 0 16 16" aria-hidden="true"><path d="M8 2.5v3M8 10.5v3M2.5 8h3M10.5 8h3"></path></svg></button>
-<button class="ib" aria-label="Settings"><svg class="i" viewBox="0 0 16 16" aria-hidden="true"><path d="M3 5h10M3 11h10"></path><circle cx="6" cy="5" r="1.5"></circle><circle cx="10" cy="11" r="1.5"></circle></svg></button>
-</div>
+<div style="margin-top: auto; height: 40px; flex-shrink: 0"></div>
 </aside>
 
 <div style="flex: 1; min-width: 0; display: flex; flex-direction: column; padding: 8px 8px 0 0">
@@ -310,9 +306,7 @@ body{margin:0}
 </section>
 
 </div>
-<div style="height: 30px; flex-shrink: 0; display: flex; align-items: center; justify-content: flex-end; gap: 6px; padding: 0 6px; font-size: 12px; color: var(--muted)">
-<svg class="i" viewBox="0 0 16 16" aria-hidden="true" style="width: 13px; height: 13px"><path d="M13.5 2.5 2.5 7l4.5 1.5L8.5 13z"></path><path d="M7 8.5l3-3"></path></svg>Ask Rowan
-</div>
+<!--FOOTER-->
 </div>
 
 </div>

diff --git a/design/canvas/source/build.py b/design/canvas/source/build.py
@@ -73,6 +73,7 @@ U_DETAILED=rd('_usage_detailed.html')
 # above the composer, and GitHub paused is gone). usage= picks the row, popover= opens the popover above it. The sidebar's bottom row is empty.
 def emit(name, t, a, empty=False, menu=None, rail=False, light=False, update=False, fold=False, icons=None, rows_html=None, usage=None, popover=''):
     t=t.replace('<!--HELMET-->',helmet)
+    if '<!--FOOTER-->' in t and '.uf {' not in t: t=t.replace('</helmet>','<style>\n'+rd('_usage.css')+'</style>\n</helmet>',1)
     if '<!--SIDEBAR-->' in t: t=t.replace('<!--SIDEBAR-->',RAIL if rail else sidebar(a,empty,menu,fold,icons,rows_html))
     t=t.replace('<!--FOOTER-->',foot_t.replace('%%USAGE%%',usage or U_DETAILED).replace('%%UPDATEPILL%%', PILL if update else '').replace('%%POPOVER%%',popover))
     assert '<!--' not in t and '%%' not in t, (name, t[t.find('%%')-80:t.find('%%')+40])
